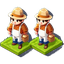
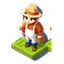
Fix sprites: single characters, proper anchoring, cache-bust v3

diff --git a/engine/static/js/town.js b/engine/static/js/town.js
@@ -120,7 +120,7 @@
   const textureCache = {};
   const failedTextures = new Set();
   const loadingTextures = new Set();
-  const ASSET_VERSION = "v2";  // Cache-buster for CDN/Cloudflare
+  const ASSET_VERSION = "v3";  // Cache-buster for CDN/Cloudflare
 
   function tryLoadTexture(url) {
     if (textureCache[url]) return textureCache[url];
@@ -205,11 +205,11 @@
       const tex = tryLoadTexture(spriteUrl);
       if (tex && !failedTextures.has(spriteUrl)) {
         sprite = new PIXI.Sprite(tex);
-        sprite.anchor.set(0.5, 0.8);
+        sprite.anchor.set(0.5, 1.0);
         sprite.x = pos.x;
         sprite.y = pos.y;
-        sprite.width = TILE_W * 1.2;
-        sprite.height = TILE_W * 1.2;
+        sprite.width = TILE_W * 1.4;
+        sprite.height = TILE_W * 1.4;
       }
 
       if (!sprite || failedTextures.has(spriteUrl)) {
@@ -297,7 +297,7 @@
       const tex = tryLoadTexture(spriteUrl);
       if (tex && !failedTextures.has(spriteUrl)) {
         sprite = new PIXI.Sprite(tex);
-        sprite.anchor.set(0.5, 0.9);
+        sprite.anchor.set(0.5, 1.0);
         sprite.x = pos.x;
         sprite.y = pos.y;
         sprite.width = TILE_W * 0.7;

diff --git a/engine/templates/index.html b/engine/templates/index.html
@@ -49,6 +49,6 @@
     <!-- PixiJS from CDN -->
     <script src="https://cdnjs.cloudflare.com/ajax/libs/pixi.js/7.3.2/pixi.min.js"></script>
     <!-- Town renderer -->
-    <script src="/static/js/town.js?v=2"></script>
+    <script src="/static/js/town.js?v=3"></script>
 </body>
 </html>
